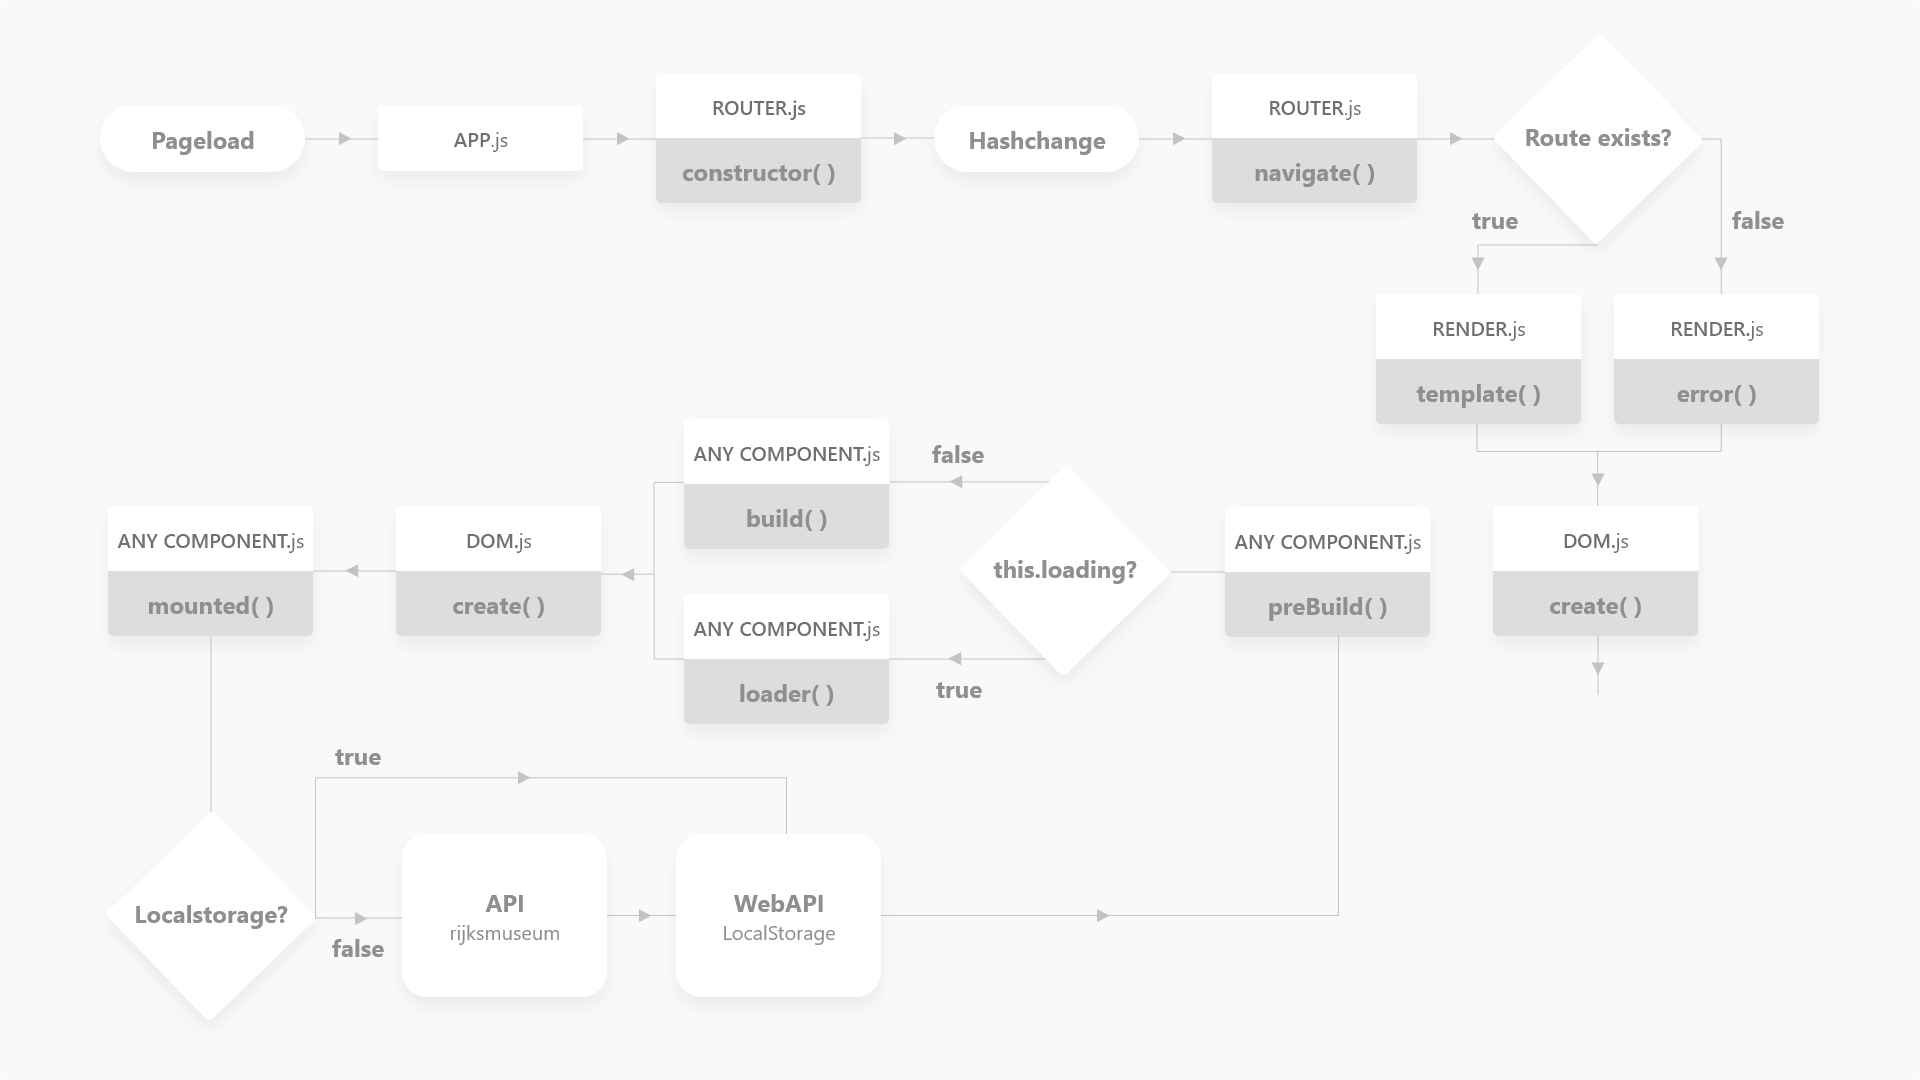
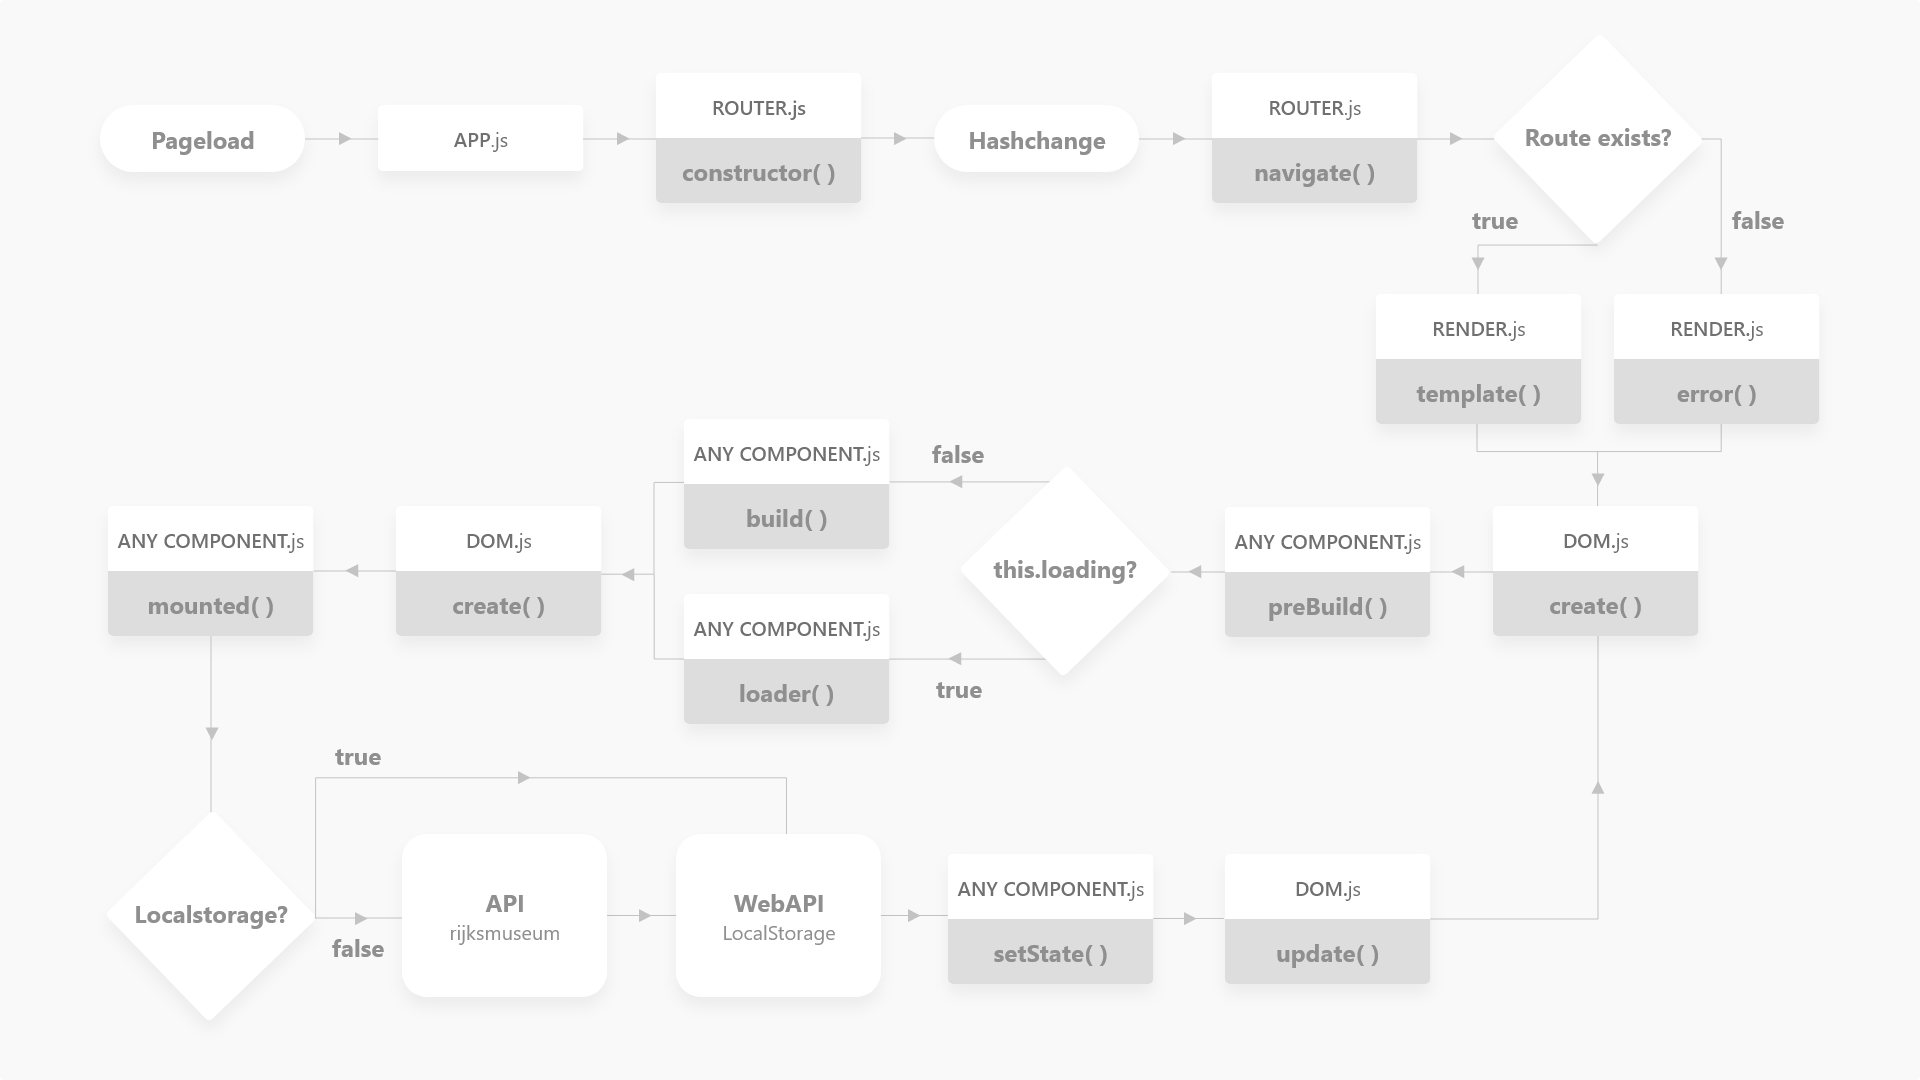
Updated interaction diagram and readme

Changed region(s): [[0.4688, 0.7944, 0.75, 0.9167]]

diff --git a/README.md b/README.md
@@ -1,7 +1,7 @@
 # ARTGALLERY EXPERIENCE
 
 ## Summary
-A single page web application made from scratch (currently without any libraries). Language of the product is currently in Dutch, adding support for English soon.
+A single page web application made from scratch (currently without any libraries). You can view artobject descriptions in both Dutch and English.
 Content served on a front page with art objects from the [Rijksmuseum API](https://www.rijksmuseum.nl/nl/api).
 
 ![Prototype screenshot](docs/screenshot_1.png)
@@ -19,6 +19,7 @@ Content served on a front page with art objects from the [Rijksmuseum API](https
 8. [Design decisions](#8-Design-decisions)
 9. [To-do](#9-To-do)
 
+[Sources](#sources)     
 [License](#License)
 
 ## 1. Live demo
@@ -233,9 +234,7 @@ class Login extends Component {
 ```
 
 ## 7. Design decisions
-Currently the design is very minimalistic, to really let the images of the art objects speak for itself.
-On desktop, the landing page shows three paintings at a time horizontally, to represent the feeling of an art gallery. When switching to the next three paintings a slide animation occurs, giving the feeling of moving to a next room. This was done to really represent the feeling of an art gallery, as the main focus of this product is showing off the art objects from the Rijksmuseum's current collection.
-
+Users can browse artobjects from the Rijksmuseum by switching between three artobjects at a time (on desktop). This is supposed to give people the feeling of being in a room within the Rijksmuseum, seeing only a few artobjects on a wall. Users can search artobjects or makers,
 ## 8. To-do
 - [x] Make connection with the API
 - [x] Render landing page with all art objects
@@ -253,6 +252,14 @@ On desktop, the landing page shows three paintings at a time horizontally, to re
 - [x] Store watcher
 - [x] Support English & Dutch language
 - [ ] Diffing algorithm to efficiently update the DOM
+
+
+## Sources used
+- [How to write your own virtual dom](https://medium.com/@deathmood/how-to-write-your-own-virtual-dom-ee74acc13060) by deathmood - The base and most inspiration for DOM and Render class came from here
+- [Hashchange events in javascript](https://developer.mozilla.org/en-US/docs/Web/Events/hashchange) by MDN
+- [Classes in javascript](https://developer.mozilla.org/en-US/docs/Web/JavaScript/Reference/Statements/class) by MDN
+- [Object.protorype.watch()](https://developer.mozilla.org/en-US/docs/Web/JavaScript/Reference/Global_Objects/Object/watch) by MDN - inspiration for store watcher function started here
+- [Rijksmuseum API](https://www.rijksmuseum.nl/nl/api)
 
 ## License
 [MIT](LICENSE) © [Folkert-Jan van der Pol](https://folkertjan.nl/)
